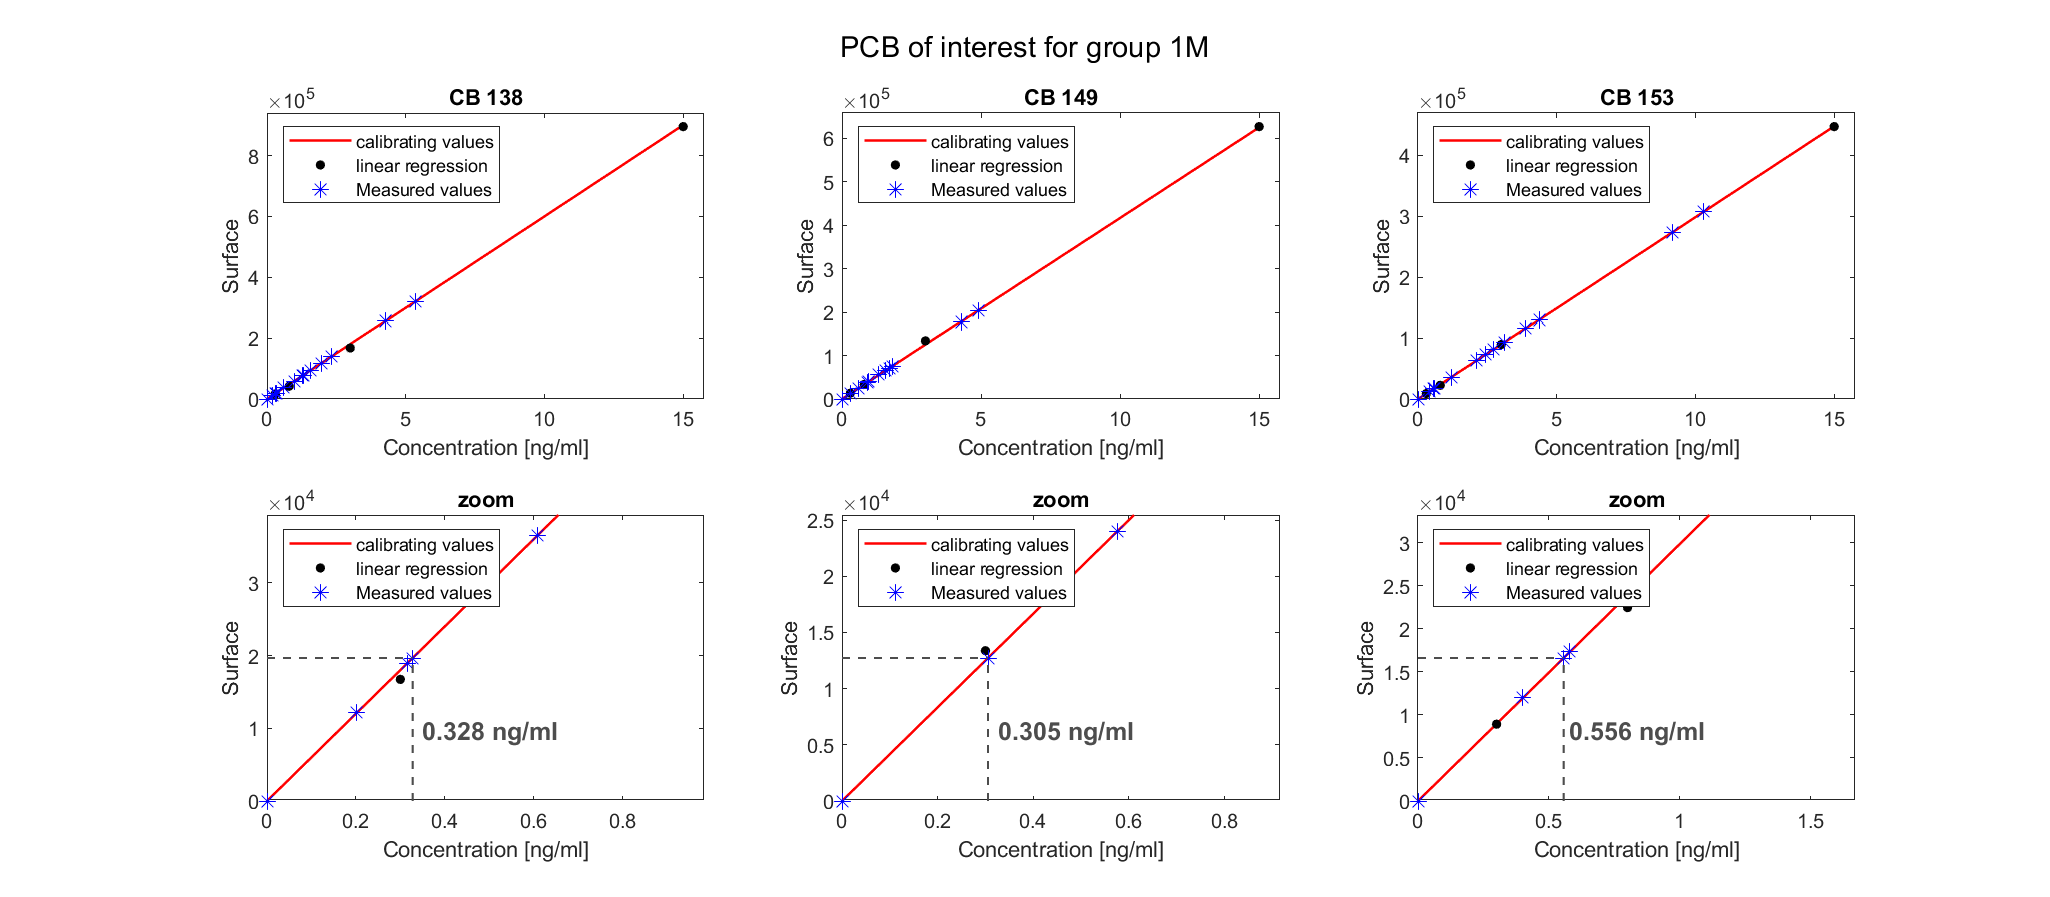
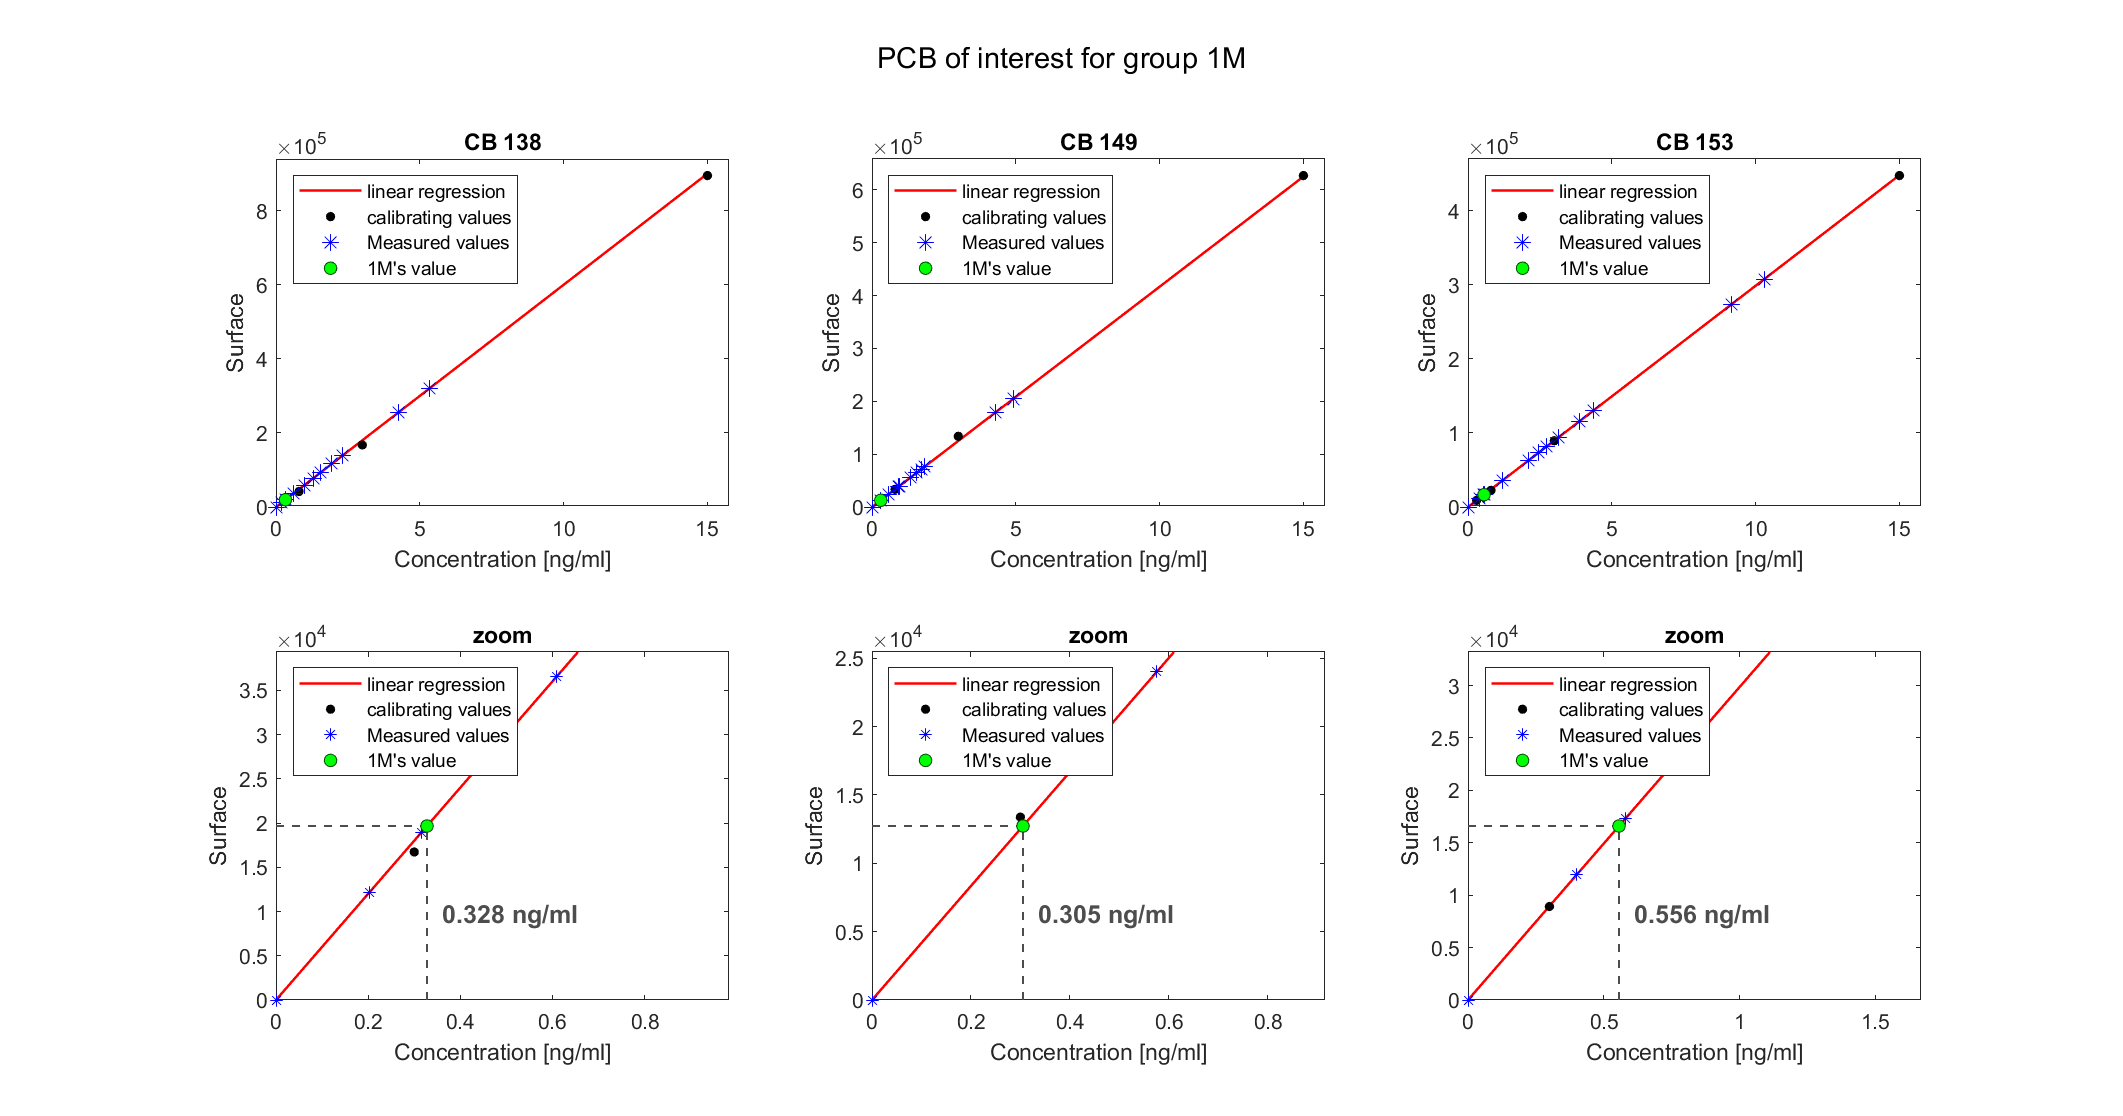
PCB and PAH of interest

diff --git a/PCB_PAH.m b/PCB_PAH.m
@@ -4,7 +4,10 @@ clc;
 set(0,'DefaultFigureWindowStyle','docked');
 load('data_PCB_PAH.mat');
 
-%plotting the graphs for all PCB
+% -------------------------------------------------------------------------
+% Plotting the graphs for all PCB
+% -------------------------------------------------------------------------
+
 fig_PCB_all = figure(1)
 PCB_concentrations = zeros(12,13);
 %for each PCB:
@@ -29,7 +32,10 @@ for i=1:12
 end
 suptitle('All PCBs detected in the sites of interest');
 % saveas(fig_PCB_all,'./figures/PCB_all.png');
-%Calculation of total PCBs:
+
+% -------------------------------------------------------------------------
+% Computing and plotting of total PCBs:
+% -------------------------------------------------------------------------
 PCB_totaux = zeros(13,1);
 PCB_totaux = sum(PCB_concentrations);
 
@@ -46,8 +52,9 @@ grid minor
 
 
 
-
-%plotting the graph for the 3 PCB of interest
+% -------------------------------------------------------------------------
+% Plotting the graph for the 3 PCB of interest
+% -------------------------------------------------------------------------
 fig_PCB_ofInterest = figure(3);
 for i=7:9
     pl = polyfit(PCB_calibrate(i,1:2:end),PCB_calibrate(i,2:2:end),1);
@@ -61,10 +68,12 @@ for i=7:9
         'color','black','Markersize',4,'MarkerFaceColor','black');
     %data values
     plot((PCB_datas(i,:))./pl(1),PCB_datas(i,:),'*','color','blue'...
-        ,'markersize',8);    
+        ,'markersize',8);
+    plot(PCB_datas(i,1)/pl(1),PCB_datas(i,1),'o','markersize',6,...
+        'MarkerFaceColor',[.0 1 .0],'MarkerEdgeColor',[.0 .3 .0]);
     hold off
     title(PCB_elements(i));
-    legend('linear regression','calibrating values','Measured values','location','northwest');
+    legend('linear regression','calibrating values','Measured values',"1M's value",'location','northwest');
     xlabel('Concentration [ng/ml]');
     ylabel('Surface');
     xmax = max([PCB_datas(i,:)./pl(1) PCB_calibrate(i,1:2:end)]);
@@ -84,30 +93,33 @@ for i=7:9
     plot(PCB_calibrate(i,1:2:end),PCB_calibrate(i,2:2:end),'o',...
         'color','black','Markersize',4,'MarkerFaceColor','black');
     %data values
-    plot((PCB_datas(i,:))./pl(1),PCB_datas(i,:),'*','color','blue'...
-        ,'markersize',8);
+    plot(PCB_datas(i,:)./pl(1),PCB_datas(i,:),'*','color','blue'...
+        ,'markersize',6);
     %enlighting our result:
     x_1M = PCB_datas(i,1)/pl(1);
     y_1M = PCB_datas(i,1);
     color = [.3 .3 .3];
-    plot([0 x_1M],[y_1M y_1M],'--','color',color,'LineWidth',1);
-    plot([x_1M x_1M],[0 y_1M],'--','color',color,'LineWidth',1);
-    text(x_1M+0.02,y_1M/2,[num2str(round(x_1M,3)) ' ng/ml']...
+    plot([0 x_1M],[y_1M y_1M],'--','color',color,'LineWidth',1,'HandleVisibility','off');
+    plot([x_1M x_1M],[0 y_1M],'--','color',color,'LineWidth',1,'HandleVisibility','off');
+    plot(PCB_datas(i,1)/pl(1),PCB_datas(i,1),'o','markersize',6,...
+        'MarkerFaceColor',[.0 1 .0],'MarkerEdgeColor',[.0 .3 .0]);
+    text(x_1M*1.1,y_1M/2,[num2str(round(x_1M,3)) ' ng/ml']...
         ,'color',color,'Fontsize',12,'Fontweight','bold');
     hold off
     title('zoom');
-    legend('linear regression','calibrating values','Measured values','location','northwest');
+    legend('linear regression','calibrating values','Measured values',...
+        "1M's value",'location','northwest');
     xlabel('Concentration [ng/ml]');
     ylabel('Surface');
-%     xmax = max([PCB_datas(i,:)./pl(1) PCB_calibrate(i,1:2:end)]);
     xlim([0 3*x_1M]);
-%     ymax = max([PCB_datas(i,:) PCB_calibrate(i,2:2:end)]);
     ylim([0 2*y_1M]);
 end
 suptitle('PCB of interest for group 1M');
 % saveas(fig_PCB_ofInterest,'./figures/PCB_ofInterest.png');
 
-%plotting the graph for all PAH:
+% -------------------------------------------------------------------------
+% Plotting the graph for all PAH:
+% -------------------------------------------------------------------------
 PAH_concentrations = zeros(16,13);
 fig_PAH_all = figure(4);
 for i=4:16
@@ -132,7 +144,9 @@ end
 suptitle('All PAHs detected in the sites of interest');
 % saveas(fig_PAH_all,'./figures/PAH_all.png');
 
-%Calculation of total PAHs:
+% -------------------------------------------------------------------------
+% Computation and plotting of total PAHs:
+% -------------------------------------------------------------------------
 PAH_totaux = zeros(13,1);
 PAH_totaux = sum(PAH_concentrations);
 
@@ -147,24 +161,30 @@ grid on
 grid minor
 % saveas(fig_PAH_Tot,'figures/PAH_Totaux.png');
 
-%plotting the graph for the 6 PAH of interest
+% -------------------------------------------------------------------------
+% Plotting the graph for the 6 PAH of interest
+% -------------------------------------------------------------------------
 fig_PAH_interest = figure(6);
 for i=4:10
     if i ~= 9
         pl = polyfit(PAH_calibrate(i,1:2:end),PAH_calibrate(i,2:2:end),1);
-        x = linspace(PAH_calibrate(i,1),PAH_calibrate(i,11),200);
+        x = linspace(0,PAH_calibrate(i,11),200);
         if i == 10
-            subplot(2,3,6);
+            subplot(6,2,11);
         else
-            subplot(2,3,i-3);
+            subplot(6,2,(i-3)*2-1);
         end
-        plot(PAH_calibrate(i,1:2:end),PAH_calibrate(i,2:2:end),'d','color','blue');
+        plot(x,pl(1)*x,'-','color','red','LineWidth',1.2);
         hold on
-        plot(x,pl(1)*x,'-','color','blue');
-        plot((PAH_datas(i,:))./pl(1),PAH_datas(i,:),'x','color','red');
+        plot(PAH_calibrate(i,1:2:end),PAH_calibrate(i,2:2:end),'o',...
+        'color','black','Markersize',4,'MarkerFaceColor','black');
+        plot((PAH_datas(i,:))./pl(1),PAH_datas(i,:),'*','color','blue'...
+        ,'markersize',8);
+        plot(PAH_datas(i,1)/pl(1),PAH_datas(i,1),'o','markersize',6,...
+        'MarkerFaceColor',[.0 1 .0],'MarkerEdgeColor',[.0 .3 .0]);
         hold off
         title(PAH_elements(i));
-        legend('calibrating values','linear regression','Measured values','location','northwest');
+        legend('calibrating values','linear regression','Measured values',"1M's value",'location','northwest');
         xlabel('Concentration [ng/ml]');
         xmax = max([PAH_datas(i,:)./pl(1) PAH_calibrate(i,1:2:end)]);
         xlim([0 xmax+100]);
@@ -173,5 +193,40 @@ for i=4:10
         ylabel('Surface');
     end
 end
+%zoom on our data
+for i=4:10
+    if i ~= 9
+        pl = polyfit(PAH_calibrate(i,1:2:end),PAH_calibrate(i,2:2:end),1);
+        x = linspace(0,PAH_calibrate(i,11),200);
+        if i == 10
+            subplot(6,2,12);
+        else
+            subplot(6,2,(i-3)*2);
+        end
+        plot(x,pl(1)*x,'-','color','red','LineWidth',1.2);
+        hold on
+        plot(PAH_calibrate(i,1:2:end),PAH_calibrate(i,2:2:end),'o',...
+        'color','black','Markersize',4,'MarkerFaceColor','black');
+        plot((PAH_datas(i,:))./pl(1),PAH_datas(i,:),'*','color','blue'...
+        ,'markersize',8);
+        %enlighting our result:
+        x_1M = PAH_datas(i,1)/pl(1);
+        y_1M = PAH_datas(i,1);
+        color = [.3 .3 .3];
+        plot([0 x_1M],[y_1M y_1M],'--','color',color,'LineWidth',1,'HandleVisibility','off');
+        plot([x_1M x_1M],[0 y_1M],'--','color',color,'LineWidth',1,'HandleVisibility','off');
+        plot(PAH_datas(i,1)/pl(1),PAH_datas(i,1),'o','markersize',6,...
+        'MarkerFaceColor',[.0 1 .0],'MarkerEdgeColor',[.0 .3 .0]);
+        text(x_1M*1.1,y_1M/2,[num2str(round(x_1M,3)) ' ng/ml']...
+            ,'color',color,'Fontsize',12,'Fontweight','bold');
+        hold off
+        title('zoom');
+        legend('calibrating values','linear regression','Measured values',"1M's value",'location','northwest');
+        xlabel('Concentration [ng/ml]');
+        xlim([0 3.5*x_1M]);
+        ylim([0 2.5*y_1M]);
+        ylabel('Surface');
+    end
+end
 suptitle('PAH of interest for group 1M');
-% saveas(fig_PAH_interest,'./figures/PAH_ofInterest.png');
+% % % % % % % saveas(fig_PAH_interest,'./figures/PAH_ofInterest.png');ne pas lancer cette ligne de code!!!
